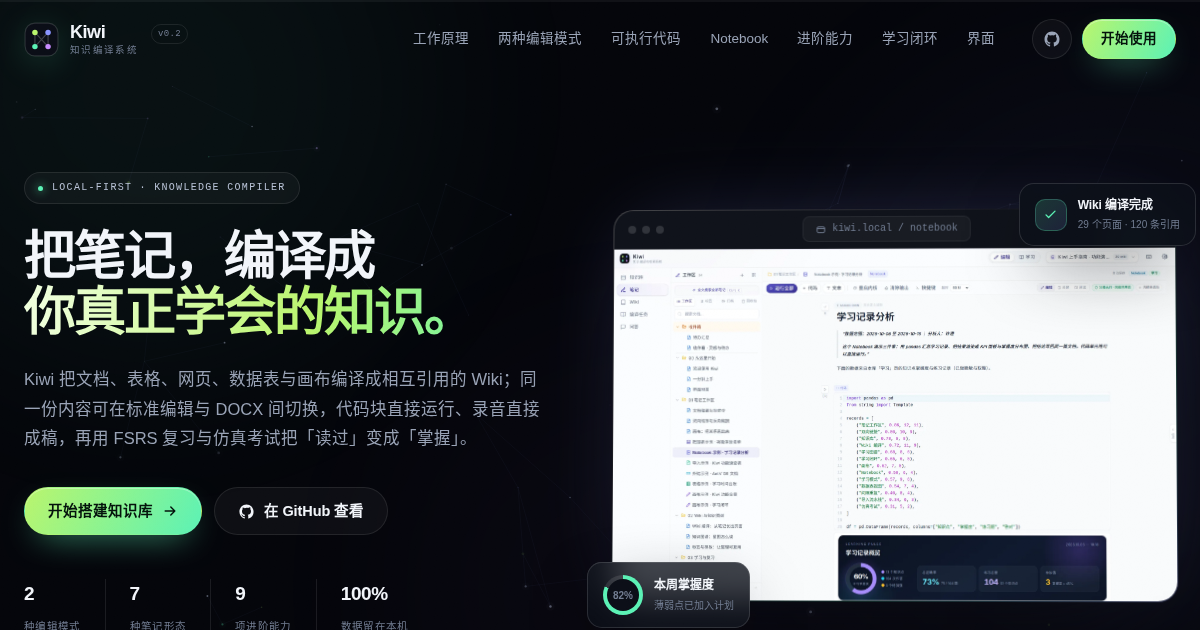
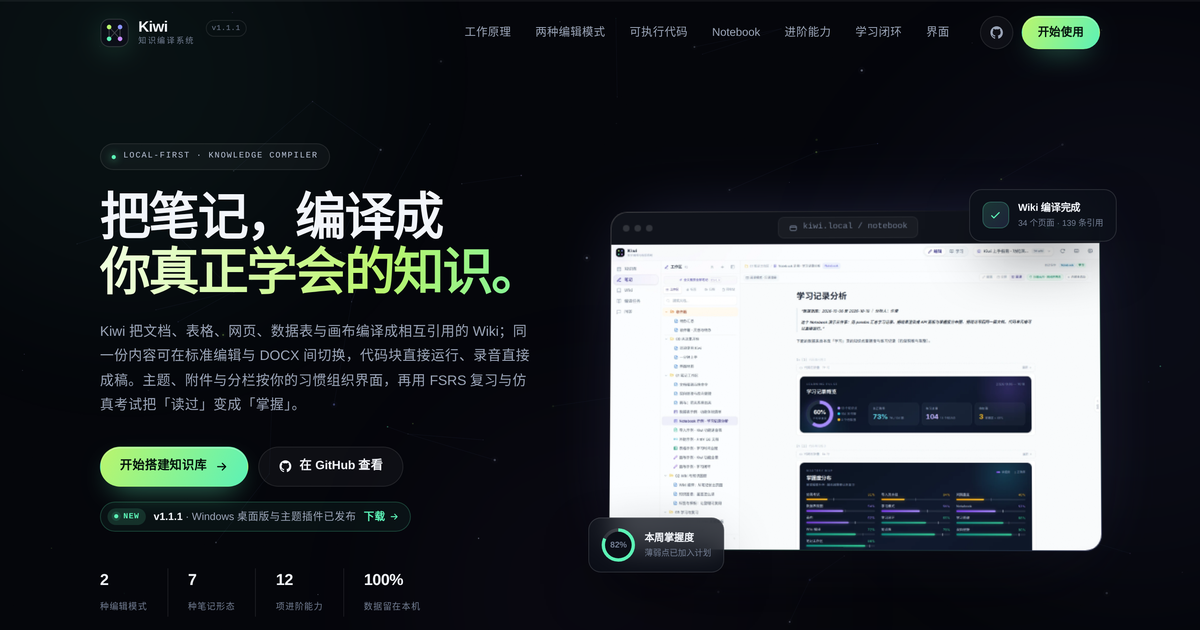
chore(portal): 更新门户至 v1.1.1 并改为直接下载 Windows 安装包
- 版本标识与首屏发布提示更新到 v1.1.1
- 新增主题与背景、附件预览、分栏工作区能力卡
- 演示库数据更新为 41 篇笔记 / 34 个 Wiki 页面 / 139 条引用
- Windows 下载入口改为直接下载安装包，补充桌面版与主题 FAQ
- 重新生成社交封面并更新 sitemap

diff --git a/portal/index.html b/portal/index.html
@@ -5,14 +5,14 @@
   <meta name="viewport" content="width=device-width, initial-scale=1" />
   <meta name="theme-color" content="#05060b" />
   <title>Kiwi · 把笔记编译成真正学会的知识</title>
-  <meta name="description" content="Kiwi 是一个本地优先的知识编译与学习系统：标准编辑与 DOCX 写同一份内容，代码块结果可直接运行；语音转写、贴一贴、组件插件与混合检索问答让知识随手可用，再把文档、表格、网页、数据表与画布编译成相互引用的 Wiki，用 FSRS 复习与仿真考试把读过变成掌握。" />
+  <meta name="description" content="Kiwi 是一个本地优先的知识编译与学习系统：标准编辑与 DOCX 写同一份内容，代码块结果可直接运行；主题插件、附件预览与停靠式分栏按你的习惯组织界面；语音转写、组件插件与混合检索问答让知识随手可用，再编译成相互引用的 Wiki，用 FSRS 复习与仿真考试把读过变成掌握。" />
   <meta name="author" content="Kiwi" />
   <link rel="canonical" href="https://lswgg.github.io/Kiwi/" />
 
   <meta property="og:type" content="website" />
   <meta property="og:url" content="https://lswgg.github.io/Kiwi/" />
   <meta property="og:title" content="Kiwi · 把笔记编译成真正学会的知识" />
-  <meta property="og:description" content="标准编辑与 DOCX、可执行代码块、Notebook、语音转写、贴一贴、组件插件、Wiki 与学习闭环。把散落的内容编译成相互引用的知识网络。" />
+  <meta property="og:description" content="标准编辑与 DOCX、可执行代码块、Notebook、主题插件、附件预览、分栏工作区、语音转写、Wiki 与学习闭环。把散落的内容编译成相互引用的知识网络；Windows 桌面版已发布。" />
   <meta property="og:image" content="https://lswgg.github.io/Kiwi/assets/og-image.png" />
   <meta property="og:image:width" content="1200" />
   <meta property="og:image:height" content="630" />
@@ -20,7 +20,7 @@
   <meta property="og:locale" content="zh_CN" />
   <meta name="twitter:card" content="summary_large_image" />
   <meta name="twitter:title" content="Kiwi · 把笔记编译成真正学会的知识" />
-  <meta name="twitter:description" content="本地优先的知识编译与学习系统。" />
+  <meta name="twitter:description" content="本地优先的知识编译与学习系统，提供 Windows 桌面版。" />
   <meta name="twitter:image" content="https://lswgg.github.io/Kiwi/assets/og-image.png" />
 
   <link rel="icon" href="assets/favicon.svg" type="image/svg+xml" />
@@ -35,7 +35,10 @@
     "name": "Kiwi",
     "applicationCategory": "ProductivityApplication",
     "operatingSystem": "Linux, macOS, Windows",
-    "description": "本地优先的知识编译与学习系统：标准编辑与 DOCX 写笔记，语音转写、贴一贴与组件插件扩展工作流，再编译成 Wiki，通过 FSRS 学习闭环验证掌握度。",
+    "softwareVersion": "1.1.1",
+    "downloadUrl": "https://github.com/LsWGG/Kiwi/releases/download/v1.1.1/Kiwi-Setup-1.1.1.exe",
+    "license": "https://www.gnu.org/licenses/agpl-3.0.html",
+    "description": "本地优先的知识编译与学习系统：标准编辑与 DOCX 写笔记，主题插件、附件预览与分栏工作区组织内容，语音转写、贴一贴与组件插件扩展工作流，再编译成 Wiki，通过 FSRS 学习闭环验证掌握度。",
     "offers": { "@type": "Offer", "price": "0", "priceCurrency": "CNY" }
   }
   </script>
@@ -64,7 +67,7 @@
           <span class="brand-name">Kiwi</span>
           <span class="brand-sub">知识编译系统</span>
         </span>
-        <span class="brand-ver">v0.2</span>
+        <span class="brand-ver">v1.1.1</span>
       </a>
 
       <div class="nav-links">
@@ -110,7 +113,7 @@
         <div class="hero-copy">
           <p class="eyebrow" data-reveal><span class="eyebrow-dot"></span> LOCAL-FIRST · KNOWLEDGE COMPILER</p>
           <h1 class="hero-title" data-reveal>把笔记，编译成<br /><span class="grad">你真正学会的知识。</span></h1>
-          <p class="hero-lede" data-reveal>Kiwi 把文档、表格、网页、数据表与画布编译成相互引用的 Wiki；同一份内容可在标准编辑与 DOCX 间切换，代码块直接运行、录音直接成稿，再用 FSRS 复习与仿真考试把「读过」变成「掌握」。</p>
+          <p class="hero-lede" data-reveal>Kiwi 把文档、表格、网页、数据表与画布编译成相互引用的 Wiki；同一份内容可在标准编辑与 DOCX 间切换，代码块直接运行、录音直接成稿。主题、附件与分栏按你的习惯组织界面，再用 FSRS 复习与仿真考试把「读过」变成「掌握」。</p>
           <div class="hero-actions" data-reveal>
             <a class="btn btn-primary" href="#start">
               开始搭建知识库
@@ -121,10 +124,17 @@
               在 GitHub 查看
             </a>
           </div>
+          <a class="release-strip" href="https://github.com/LsWGG/Kiwi/releases/download/v1.1.1/Kiwi-Setup-1.1.1.exe" data-reveal>
+            <span class="release-pill">NEW</span>
+            <span><strong>v1.1.1</strong> · Windows 桌面版与主题插件已发布</span>
+            <span class="release-arrow">下载
+              <svg viewBox="0 0 20 20" width="12" height="12" fill="none" stroke="currentColor" stroke-width="1.9" stroke-linecap="round" stroke-linejoin="round" aria-hidden="true"><path d="M4 10h11M11 5l5 5-5 5" /></svg>
+            </span>
+          </a>
           <ul class="hero-stats" data-reveal>
             <li><b>2</b><span>种编辑模式</span></li>
             <li><b>7</b><span>种笔记形态</span></li>
-            <li><b>9</b><span>项进阶能力</span></li>
+            <li><b>12</b><span>项进阶能力</span></li>
             <li><b>100%</b><span>数据留在本机</span></li>
           </ul>
         </div>
@@ -148,7 +158,7 @@
             <span class="fc-icon">
               <svg viewBox="0 0 20 20" width="15" height="15" fill="none" stroke="currentColor" stroke-width="1.8" stroke-linecap="round" stroke-linejoin="round"><path d="M4 10.5l3.5 3.5L16 5.5" /></svg>
             </span>
-            <div><strong>Wiki 编译完成</strong><span>29 个页面 · 120 条引用</span></div>
+            <div><strong>Wiki 编译完成</strong><span>34 个页面 · 139 条引用</span></div>
           </div>
 
           <div class="float-card fc-mastery" aria-hidden="true">
@@ -419,7 +429,7 @@ cohort.<span class="tok-f">plot</span>(kind=<span class="tok-s">"line"</span>, m
         <header class="section-head" data-reveal>
           <p class="section-kicker"><span></span>MORE THAN MARKDOWN</p>
           <h2 class="section-title">别的笔记停在记录，<br class="br-desktop" />Kiwi 继续把内容用起来。</h2>
-          <p class="section-sub">记录只是起点。语音、浮窗、插件、分享、检索、待办、导出与学习都接进同一份内容，让笔记从「存起来」变成「用起来」。</p>
+          <p class="section-sub">记录只是起点。语音、浮窗、插件、主题、附件、分栏、分享、检索、待办、导出与学习都接进同一份内容，让笔记从「存起来」变成「用起来」。</p>
         </header>
 
         <div class="cap-forms" data-reveal>
@@ -453,6 +463,33 @@ cohort.<span class="tok-f">plot</span>(kind=<span class="tok-s">"line"</span>, m
             <h3>组件插件</h3>
             <p>内置分栏、画廊、日历、数据表、待办进度等可交互区块，也支持导入第三方 zip 插件。设置页可真实预览、启停与导出，区块颜色自动跟随系统主题色与学习模式。</p>
             <div class="cap-tags"><span>内置区块</span><span>zip 导入</span><span>效果预览</span><span>主题适配</span></div>
+          </article>
+
+          <article class="cap-card" data-reveal>
+            <span class="cap-icon">
+              <svg viewBox="0 0 20 20" width="17" height="17" fill="none" stroke="currentColor" stroke-width="1.6" stroke-linecap="round" stroke-linejoin="round" aria-hidden="true"><path d="M10 3.5c2.9 3.1 4.6 5.3 4.6 7.5a4.6 4.6 0 0 1-9.2 0c0-2.2 1.7-4.4 4.6-7.5Z" /><path d="M7.9 11.2a2.1 2.1 0 0 0 2.1 2.1" /></svg>
+            </span>
+            <h3>主题与背景</h3>
+            <p>用声明式令牌驱动全站：内置「经典紫」与「极光」，主题包可导入、预览、启停与导出，编辑画布、表格与插件同步换装。自定义背景支持图片与 MP4 / WebM 等动态素材，上限 100MB。</p>
+            <div class="cap-tags"><span>经典紫 · 极光</span><span>导入导出</span><span>动态背景</span><span>100MB</span></div>
+          </article>
+
+          <article class="cap-card" data-reveal>
+            <span class="cap-icon">
+              <svg viewBox="0 0 20 20" width="17" height="17" fill="none" stroke="currentColor" stroke-width="1.6" stroke-linecap="round" stroke-linejoin="round" aria-hidden="true"><path d="M5.5 3.5h5.5l3.5 3.5v9.5h-9z" /><path d="M11 3.5V7h3.5" /><path d="M7.3 11.3s1.1-1.7 2.7-1.7 2.7 1.7 2.7 1.7-1.1 1.7-2.7 1.7-2.7-1.7-2.7-1.7Z" /><circle cx="10" cy="11.3" r=".7" /></svg>
+            </span>
+            <h3>附件预览</h3>
+            <p>Word、Excel、PowerPoint、PDF、Markdown、CSV、JSON 与压缩包在笔记里直接预览：Office 保留原版式，代码与数据有结构高亮，HTML 在沙箱中呈现；也可以切换成简洁的文件卡片。</p>
+            <div class="cap-tags"><span>Office 原版式</span><span>代码与数据</span><span>压缩包清单</span><span>卡片模式</span></div>
+          </article>
+
+          <article class="cap-card" data-reveal>
+            <span class="cap-icon">
+              <svg viewBox="0 0 20 20" width="17" height="17" fill="none" stroke="currentColor" stroke-width="1.6" stroke-linecap="round" stroke-linejoin="round" aria-hidden="true"><rect x="3" y="4" width="14" height="12" rx="2" /><path d="M10 4v12M10 9.4h7" /></svg>
+            </span>
+            <h3>分栏工作区</h3>
+            <p>同一窗口并列打开最多 6 篇笔记，左右、上下或网格布局一键切换；拖动标题即可重新停靠，每一栏独立编辑、查找与保存，上锁笔记逐栏解锁。布局按知识库分别记忆。</p>
+            <div class="cap-tags"><span>最多 6 栏</span><span>拖拽停靠</span><span>布局记忆</span><span>独立编辑</span></div>
           </article>
 
           <article class="cap-card" data-reveal>
@@ -567,7 +604,7 @@ cohort.<span class="tok-f">plot</span>(kind=<span class="tok-s">"line"</span>, m
         <ul class="loop-facts" data-reveal>
           <li><b>FSRS-5</b><span>按稳定度与难度安排复习</span></li>
           <li><b>7 种</b><span>客观与主观题型</span></li>
-          <li><b>29</b><span>演示库知识点</span></li>
+          <li><b>34</b><span>演示库知识点</span></li>
           <li><b>Anki</b><span>题库双向导入导出</span></li>
         </ul>
       </div>
@@ -588,7 +625,7 @@ cohort.<span class="tok-f">plot</span>(kind=<span class="tok-s">"line"</span>, m
               Wiki 页面
             </button>
             <button class="gallery-tab" role="tab" id="tab-notes" aria-selected="false" aria-controls="gallery-panel" tabindex="-1"
-              data-src="assets/screenshots/notes-welcome.webp" data-alt="笔记工作区" data-title="笔记工作区" data-desc="目录树、双向链接与阅读视图，所有笔记类型共用一套组织方式。">
+              data-src="assets/screenshots/notes-welcome.webp" data-alt="笔记工作区：目录树、分栏入口与阅读视图" data-title="笔记工作区" data-desc="目录树、双向链接与停靠式分栏，所有笔记类型共用一套组织方式。">
               笔记工作区
             </button>
             <button class="gallery-tab" role="tab" id="tab-sheet" aria-selected="false" aria-controls="gallery-panel" tabindex="-1"
@@ -652,12 +689,22 @@ cohort.<span class="tok-f">plot</span>(kind=<span class="tok-s">"line"</span>, m
           <div class="start-copy">
             <p class="section-kicker"><span></span>GET STARTED</p>
             <h2 class="section-title">十分钟，<br />搭起自己的知识库。</h2>
-            <p class="section-sub">一条命令启动，首次运行自带完整演示知识库。生产环境可用 Docker 一键部署。</p>
+            <p class="section-sub">一条命令启动，首次运行自带完整演示知识库；Windows 用户也可以直接安装桌面版。生产环境可用 Docker 一键部署。</p>
             <ul class="start-list">
               <li><span class="check">✓</span>本地运行，无需注册与订阅</li>
-              <li><span class="check">✓</span>内置 33 篇演示笔记、29 个 Wiki 页面与表格示例，覆盖全部功能</li>
+              <li><span class="check">✓</span>内置 41 篇演示笔记、34 个 Wiki 页面与表格示例，覆盖全部功能</li>
+              <li><span class="check">✓</span>Windows 桌面版内置 PostgreSQL、Qdrant 与运行时，安装即用</li>
               <li><span class="check">✓</span>模型可替换，兼容 OpenAI 协议</li>
             </ul>
+            <div class="start-download">
+              <a class="btn btn-primary" href="https://github.com/LsWGG/Kiwi/releases/download/v1.1.1/Kiwi-Setup-1.1.1.exe">
+                <svg viewBox="0 0 24 24" width="17" height="17" fill="currentColor" aria-hidden="true"><path d="M3 5.5 10.2 4.4v7.1H3V5.5Zm8.4-1.3L21 2.8v8.7h-9.6V4.2ZM3 12.7h7.2v7L3 18.5v-5.8Zm8.4 0H21v8.5l-9.6-1.4v-7.1Z" /></svg>
+                下载 Windows 安装包
+              </a>
+              <a class="start-download-note" href="https://github.com/LsWGG/Kiwi/blob/main/docs/WINDOWS.md" target="_blank" rel="noopener">
+                <b>v1.1.1</b> · Windows 10/11 x64<br />安装包内置 PostgreSQL、Qdrant 与运行时 · 安装说明
+              </a>
+            </div>
             <a class="text-link" href="https://github.com/LsWGG/Kiwi/blob/main/docs/DEPLOY.md" target="_blank" rel="noopener">
               查看完整部署指南
               <svg viewBox="0 0 20 20" width="14" height="14" fill="none" stroke="currentColor" stroke-width="1.8" stroke-linecap="round" stroke-linejoin="round" aria-hidden="true"><path d="M4 10h11M11 5l5 5-5 5" /></svg>
@@ -695,7 +742,7 @@ cohort.<span class="tok-f">plot</span>(kind=<span class="tok-s">"line"</span>, m
 <span class="out">→ API</span>     <span class="ok">127.0.0.1:18474</span>
 <span class="out">→ 状态</span>    <span class="ok">数据卷已创建，迁移完成</span></code></pre>
             </div>
-            <p class="terminal-note">需要 Python 3.12 / Node.js 20+ / Docker；首次摄入会下载本地嵌入模型。</p>
+            <p class="terminal-note">Web / Docker 需要 Python 3.12、Node.js 20+ 或 Docker；Windows 桌面版内置运行时，安装即用。首次摄入会下载本地嵌入模型。</p>
           </div>
         </div>
       </div>
@@ -730,6 +777,10 @@ cohort.<span class="tok-f">plot</span>(kind=<span class="tok-s">"line"</span>, m
             <p>插件是第三方前端代码，只应在信任来源使用。导入前会预检并展示入口与区块信息，启用后才加载 ESM；可以随时停用、导出或删除。停用或加载失败时区块降级为静态卡片，数据不会丢；公开分享页不执行插件脚本。</p>
           </details>
           <details class="faq" name="faq">
+            <summary>主题和背景可以自定义吗？<span class="faq-icon" aria-hidden="true"></span></summary>
+            <p>可以。系统内置「经典紫」与「极光」两套主题，主题画廊按「当前 → 内置 → 已安装」排序；也可以导入第三方主题包，预览后启用、停用或导出。主题通过声明式颜色令牌、背景、面板透明度与毛玻璃驱动全站。自定义背景支持 PNG / APNG / JPEG / GIF / WebP / AVIF / BMP 与 MP4 / WebM / Ogg / MOV，单个文件上限 100MB。</p>
+          </details>
+          <details class="faq" name="faq">
             <summary>分享链接有访问控制吗？<span class="faq-icon" aria-hidden="true"></span></summary>
             <p>分享页使用随机 token，可设 1 小时至 30 天有效期与访问密码，随时撤销并查看浏览次数；图片与附件通过短时签名地址加载，上锁笔记不能创建分享。配置公网地址后，还可以配合隧道只暴露分享页。</p>
           </details>
@@ -743,7 +794,11 @@ cohort.<span class="tok-f">plot</span>(kind=<span class="tok-s">"line"</span>, m
           </details>
           <details class="faq" name="faq">
             <summary>需要订阅或联网吗？<span class="faq-icon" aria-hidden="true"></span></summary>
-            <p>不需要订阅，也没有账户。Kiwi 在你自己的机器上运行，模型使用任意 OpenAI 兼容接口；仅在首次下载嵌入模型和调用模型时需要网络。</p>
+            <p>不需要订阅，也没有账户。Kiwi 在你自己的机器上运行，模型使用任意 OpenAI 兼容接口；仅在首次下载嵌入模型和调用模型时需要网络。Windows 桌面版默认不发起外网请求，可在设置中允许外部模型接口与本机代码执行。</p>
+          </details>
+          <details class="faq" name="faq">
+            <summary>Windows 桌面版和 Web 版有什么区别？<span class="faq-icon" aria-hidden="true"></span></summary>
+            <p>功能一致，桌面版用 WebView2 承载同一套界面，并内置 PostgreSQL、Qdrant 与便携 Python 运行时，无需单独安装 Node.js、Python 或 Docker，数据默认全部留在本机。安装包不包含大模型、向量、语音与 OCR 模型，配置本地或 OpenAI 兼容接口后才启用 AI 能力；桌面端默认不发起外网请求，可在「设置 → 桌面」中按需开启。Linux / macOS 或服务器部署继续使用本地脚本与 Docker。</p>
           </details>
           <details class="faq" name="faq">
             <summary>我的数据存在哪里？<span class="faq-icon" aria-hidden="true"></span></summary>
@@ -755,7 +810,7 @@ cohort.<span class="tok-f">plot</span>(kind=<span class="tok-s">"line"</span>, m
           </details>
           <details class="faq" name="faq">
             <summary>后续如何升级？<span class="faq-icon" aria-hidden="true"></span></summary>
-            <p>拉取最新代码后重新运行启动脚本即可。Docker 部署会在后端启动时自动执行数据库迁移，持久化数据卷保持不变。</p>
+            <p>Web / Docker 部署拉取最新代码后重新运行启动脚本即可，Docker 会在后端启动时自动执行数据库迁移；Windows 桌面版下载新版安装包覆盖安装，用户数据与设置会保留。</p>
           </details>
         </div>
       </div>
@@ -807,6 +862,7 @@ cohort.<span class="tok-f">plot</span>(kind=<span class="tok-s">"line"</span>, m
         <div class="footer-col">
           <h4>资源</h4>
           <a href="https://github.com/LsWGG/Kiwi" target="_blank" rel="noopener">GitHub</a>
+          <a href="https://github.com/LsWGG/Kiwi/releases/download/v1.1.1/Kiwi-Setup-1.1.1.exe">Windows 下载</a>
           <a href="https://github.com/LsWGG/Kiwi/blob/main/docs/DEPLOY.md" target="_blank" rel="noopener">部署指南</a>
           <a href="https://github.com/LsWGG/Kiwi/blob/main/docs/CHANGELOG.md" target="_blank" rel="noopener">版本记录</a>
         </div>
@@ -816,10 +872,11 @@ cohort.<span class="tok-f">plot</span>(kind=<span class="tok-s">"line"</span>, m
           <span>FastAPI · SQLAlchemy</span>
           <span>PostgreSQL 16 · Qdrant</span>
           <span>AntV G6 · Docker</span>
+          <span>.NET 10 · WebView2</span>
         </div>
       </div>
       <div class="footer-bottom">
-        <span>© 2026 Kiwi · 本地优先的个人知识系统</span>
+        <span>© 2026 Kiwi · v1.1.1 · 本地优先的个人知识系统</span>
         <span>Built for people who want to actually learn.</span>
       </div>
     </div>

diff --git a/portal/assets/portal.css b/portal/assets/portal.css
@@ -574,6 +574,74 @@ main,
   margin-top: 34px;
 }
 
+.release-strip {
+  display: inline-flex;
+  align-items: center;
+  flex-wrap: wrap;
+  gap: 9px;
+  max-width: 100%;
+  margin-top: 18px;
+  padding: 7px 13px 7px 8px;
+  border: 1px solid rgba(92, 242, 182, 0.22);
+  border-radius: 999px;
+  background: rgba(92, 242, 182, 0.055);
+  color: var(--muted);
+  font-size: 12.5px;
+  line-height: 1.3;
+  transition: transform 0.3s var(--ease), background 0.25s, border-color 0.25s;
+}
+
+.release-strip:hover {
+  transform: translateY(-1px);
+  border-color: rgba(92, 242, 182, 0.42);
+  background: rgba(92, 242, 182, 0.1);
+}
+
+.release-strip strong {
+  color: var(--text);
+  font-weight: 600;
+}
+
+.release-pill {
+  display: inline-flex;
+  align-items: center;
+  gap: 6px;
+  padding: 4px 8px;
+  border-radius: 999px;
+  background: rgba(92, 242, 182, 0.14);
+  color: var(--mint);
+  font-family: var(--mono);
+  font-size: 9.5px;
+  font-weight: 600;
+  letter-spacing: 0.08em;
+}
+
+.release-pill::before {
+  content: "";
+  width: 5px;
+  height: 5px;
+  border-radius: 50%;
+  background: var(--mint);
+  box-shadow: 0 0 0 3px rgba(92, 242, 182, 0.13);
+}
+
+.release-arrow {
+  display: inline-flex;
+  align-items: center;
+  gap: 5px;
+  color: var(--mint);
+  font-weight: 600;
+  white-space: nowrap;
+}
+
+.release-arrow svg {
+  transition: transform 0.25s var(--ease);
+}
+
+.release-strip:hover .release-arrow svg {
+  transform: translateX(2px);
+}
+
 .center-actions {
   justify-content: center;
 }
@@ -1343,6 +1411,41 @@ main,
   background: rgba(92, 242, 182, 0.14);
   color: var(--mint);
   font-size: 10px;
+}
+
+.start-download {
+  display: flex;
+  flex-wrap: wrap;
+  align-items: center;
+  gap: 14px;
+  margin-top: 28px;
+}
+
+.start-download .btn {
+  height: 44px;
+  padding: 0 20px;
+  font-size: 14px;
+}
+
+.start-download-note {
+  display: block;
+  color: var(--muted-2);
+  font-size: 11.5px;
+  line-height: 1.6;
+  transition: color 0.25s;
+}
+
+.start-download-note b {
+  color: var(--text);
+  font-weight: 600;
+}
+
+.start-download-note:hover {
+  color: var(--muted);
+}
+
+.start-download + .text-link {
+  margin-top: 18px;
 }
 
 .terminal {
@@ -2631,6 +2734,22 @@ main,
 
   .hero-lede {
     font-size: 15px;
+  }
+
+  .release-strip {
+    margin-top: 16px;
+    padding-right: 11px;
+    font-size: 11.5px;
+  }
+
+  .release-pill {
+    display: none;
+  }
+
+  .start-download {
+    flex-direction: column;
+    align-items: flex-start;
+    gap: 12px;
   }
 
   .hero-stats {

diff --git a/portal/README.md b/portal/README.md
@@ -42,3 +42,4 @@ assets/screenshots/*.webp   产品截图（最长边 1600px，按页面需要压
 - 动效必须尊重 `prefers-reduced-motion`；新增交互需保留键盘可达性。
 - 学习闭环使用 `setupShowcase({ auto })` 自动轮播：悬停、键盘聚焦、页面不可见或区块离开视口时暂停，减少动态偏好下不启用。
 - 更新首页标题或主视觉后，同步重新生成 `assets/og-image.png`，并更新 `sitemap.xml` 的 `lastmod`。
+- 发布新版本时，同步更新 `brand-ver`、版本提示条、Windows 下载按钮、页脚版本，以及直链 `releases/download/vX.Y.Z/Kiwi-Setup-X.Y.Z.exe`（点击应直接下载安装包，不跳转 Release 页）。
